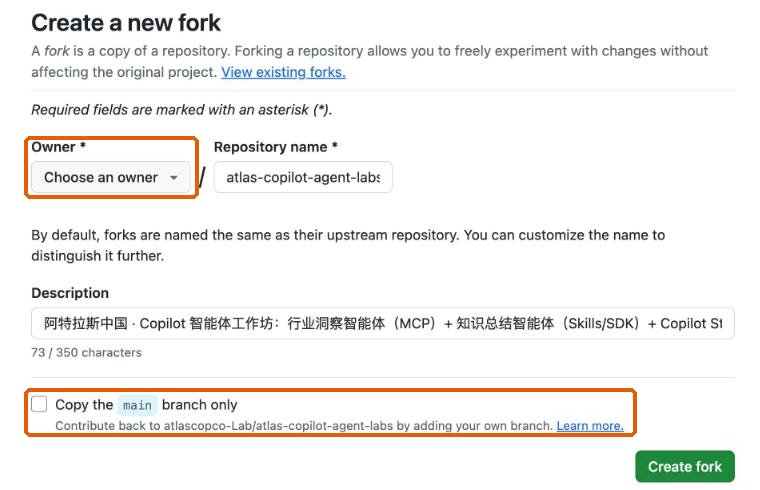
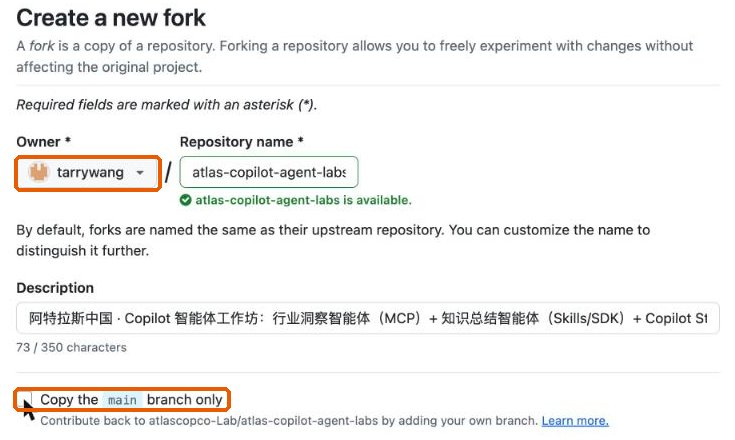
docs: fork 上要单独 Enable Industry Insight Weekly（否则没有 Run workflow），重拍 fork 截图

diff --git a/docs/manual/index.html b/docs/manual/index.html
@@ -452,14 +452,16 @@ figure.shot figcaption { font-size: 13px; color: var(--az-ink-3); margin-top: 6p
           <tr><td>3. Copilot 令牌（Fine-grained PAT）</td><td>在 <a href="https://github.com/settings/personal-access-tokens/new">个人设置 → Fine-grained tokens</a> 生成：Resource owner 选自己，过期时间选 7 天，权限只勾 Account permissions → <b>Copilot Requests: Read</b>。生成后复制 <code>github_pat_…</code>，<b>只显示一次</b>。</td></tr>
           <tr><td>4. 存成 Codespaces secret</td><td><a href="https://github.com/settings/codespaces">Settings → Codespaces</a> → New secret：Name <code>COPILOT_GITHUB_TOKEN</code>，Value 粘贴令牌，Repository access 选你 fork 的仓库。Codespace 启动时自动注入，令牌不落盘。</td></tr>
           <tr><td>5. 存成仓库 Actions secret（Lab-01 第 4 步用）</td><td>你的 fork → Settings → Secrets and variables → <b>Actions</b> → New repository secret：Name 同样是 <code>COPILOT_GITHUB_TOKEN</code>，Value 同一个令牌。云端的 gh-aw 智能体用它调用 Copilot。</td></tr>
-          <tr><td>6. 打开 fork 的 Actions</td><td>你的 fork → <b>Actions</b> 页签 → 点「I understand my workflows, go ahead and enable them」。再到 Settings → Actions → General → 最下面 Workflow permissions 勾选 <b>Allow GitHub Actions to create and approve pull requests</b> → Save。</td></tr>
+          <tr><td>6. 打开 fork 的 Actions</td><td>你的 fork → <b>Actions</b> 页签 → 点「I understand my workflows, go ahead and enable them」；接着点左侧 <b>Industry Insight Weekly</b>（标着 Disabled）→ 黄条右边 <b>Enable workflow</b>，出现绿色 <b>Run workflow</b> 按钮才算好（fork 上的定时工作流要单独启用，不启用就没有 Run workflow）。再到 Settings → Actions → General → 最下面 Workflow permissions 勾选 <b>Allow GitHub Actions to create and approve pull requests</b> → Save。</td></tr>
           <tr><td>7. 先建好 Codespace</td><td>按 <a href="#s0">开场 0.1</a> 在自己的 fork 上建一次，等到 VS Code 出现后可以关掉页面，上课时直接打开。</td></tr>
           <tr><td>8. Copilot Studio 演示账号</td><td>能登录 <a href="https://copilotstudio.microsoft.com">copilotstudio.microsoft.com</a>（Lab-03 用，讲师发账号）</td></tr>
         </tbody>
       </table>
     </div>
     <figure class="shot"><img src="img/00a-fork.jpg" alt="Create a new fork 页面" loading="lazy"><figcaption>第 2 项：Owner 选自己，取消勾选「Copy the main branch only」</figcaption></figure>
-    <figure class="shot"><img src="img/00c-fork-actions-pr.jpg" alt="fork 的 Workflow permissions" loading="lazy"><figcaption>第 6 项：fork 的 Settings → Actions → General 最下面，勾选 Allow GitHub Actions to create and approve pull requests</figcaption></figure>
+    <figure class="shot"><img src="img/00b-fork-enable-actions.jpg" alt="fork 的 Actions 页签" loading="lazy"><figcaption>第 6 项①：fork 的 Actions 页签，点 I understand my workflows, go ahead and enable them</figcaption></figure>
+    <figure class="shot"><img src="img/00b2-fork-enable-workflow.jpg" alt="启用 Industry Insight Weekly" loading="lazy"><figcaption>第 6 项②：左侧 Industry Insight Weekly 标着 Disabled，点黄条右边的 Enable workflow</figcaption></figure>
+    <figure class="shot"><img src="img/00c-fork-actions-pr.jpg" alt="fork 的 Workflow permissions" loading="lazy"><figcaption>第 6 项③：fork 的 Settings → Actions → General 最下面，勾选 Allow GitHub Actions to create and approve pull requests → Save</figcaption></figure>
     <p class="tip">费用：Codespace 和 Actions 记在你自己的账号上。GitHub 个人账号每月有 120 核时的免费 Codespaces 额度（相当于 2 核机器 60 小时），本课程用 4 核机器，课前建一次加上课半天约 15~20 核时，在免费额度内；课后记得停掉或删除 Codespace（见 <a href="#after">课后清理</a>）。Copilot 调用用的是你自己的 Copilot 额度。</p>
   </section>
 
@@ -691,7 +693,7 @@ git push</pre>
         <figure class="shot"><img src="img/32-gh-aw-run-dialog.jpg" alt="手动运行" loading="lazy"></figure>
         <figure class="shot"><img src="img/33-gh-aw-queued.jpg" alt="运行已排队" loading="lazy"></figure>
         <p class="see"><b>应该看到</b>：列表最上面出现你的运行。一次约 5 分钟，放在休息前触发，休息回来看结果：成功时你的 fork 里会多一个 <b>Pull request</b>，里面是带你新行业的周报，你自己审核后 Merge。</p>
-        <p class="warn">左侧找不到 Industry Insight Weekly、或者没有 Run workflow 按钮：fork 的 Actions 还没打开（课前准备第 6 项）。运行失败时 gh-aw 会自动在你的 fork 开一个「[aw] …」Issue 说明原因，<code>401 Authentication failed</code> 表示你 fork 的 Actions secret <code>COPILOT_GITHUB_TOKEN</code> 没设或令牌过期（课前准备第 5 项）。fork 上的定时任务默认不跑，所以本课程都用手动触发。</p>
+        <p class="warn">左侧找不到 Industry Insight Weekly：fork 的 Actions 还没打开；有它但没有 Run workflow 按钮、旁边标着 Disabled：这个工作流还没单独启用，点进去按黄条上的 <b>Enable workflow</b>（都是课前准备第 6 项）。运行失败时 gh-aw 会自动在你的 fork 开一个「[aw] …」Issue 说明原因，<code>401 Authentication failed</code> 表示你 fork 的 Actions secret <code>COPILOT_GITHUB_TOKEN</code> 没设或令牌过期（课前准备第 5 项）。启用后它也会每周一按时在你的 fork 上跑，不想要就在课后关掉（见 <a href="#after">课后清理</a>）。</p>
       </div>
     </div>
 
@@ -978,7 +980,7 @@ git fetch upstream</pre>
       <article class="az-card is-orchid">
         <div class="card-no" style="color:#F3DDEE;">可选</div>
         <h3 class="card-title">fork 留着还是删</h3>
-        <p class="card-desc" style="color:#fff;">fork 不花钱，可以留着回去接着改自己的行业和 Skill。想每周一自动收周报：fork 的 Actions 里把 Industry Insight Weekly 启用定时（fork 默认不跑定时任务），并换一个长期有效的令牌。不要了就 Settings → 最下面 Delete this repository。</p>
+        <p class="card-desc" style="color:#fff;">fork 不花钱，可以留着回去接着改自己的行业和 Skill。课前启用的 Industry Insight Weekly 会每周一在你的 fork 上自动跑：想继续收周报就换一个长期有效的令牌；不想要（或者已经删了令牌）就到 fork 的 Actions → Industry Insight Weekly → 右上角 <b>⋯</b> → <b>Disable workflow</b>，免得每周报 401。fork 不要了就 Settings → 最下面 Delete this repository。</p>
       </article>
     </div>
   </section>

diff --git a/INSTRUCTOR.md b/INSTRUCTOR.md
@@ -17,7 +17,8 @@
    Codespaces / Actions / Copilot 额度都记在学员自己账号上，互不影响；学员也不需要本仓库的写权限。
    - fork 时提醒**取消勾选**「Copy the `main` branch only」，`answer/*` 参考答案分支才会带过去；
    - 学员课前要做：fork → 生成 Fine-grained PAT（Account → Copilot Requests: Read，7 天过期）→
-     存成个人 Codespaces secret 和 fork 的 Actions secret（都叫 `COPILOT_GITHUB_TOKEN`）→ fork 的 Actions 页签启用工作流 →
+     存成个人 Codespaces secret 和 fork 的 Actions secret（都叫 `COPILOT_GITHUB_TOKEN`）→ fork 的 Actions 页签启用工作流，
+     再单独 Enable 一次 Industry Insight Weekly（fork 上定时工作流默认 Disabled，不启用就没有 Run workflow）→
      fork 的 Settings → Actions → General 勾选「Allow GitHub Actions to create and approve pull requests」→ 建一次 Codespace。
      步骤见 [实操手册 · 课前准备](docs/manual/index.html#prep)；
    - 如果学员是 Enterprise Managed Users（EMU）账号，不能 fork 到个人名下，要改回「组织内建仓库」的方式，T-7 先确认。
@@ -53,7 +54,7 @@
 
 - 工作流源文件：`.github/workflows/industry-insight.md`；改完必须 `gh aw compile industry-insight` 再提交 `.lock.yml`。
 - 本仓库需要 Secret `COPILOT_GITHUB_TOKEN`（讲师的 Fine-grained PAT，Copilot Requests 权限）；每个学员的 fork 用学员自己的同名 Secret。
-- fork 上 `schedule` 默认不触发，学员在 Lab-01 第 4 步用 Run workflow 手动跑；结果是学员 fork 里的 PR。
+- fork 上定时工作流默认 Disabled，学员课前在 Actions 里点 Enable workflow（启用后每周一也会在学员 fork 上定时跑）；课上在 Lab-01 第 4 步用 Run workflow 手动跑，结果是学员 fork 里的 PR。
 - 仓库 Settings → Actions → General：勾选 **Allow GitHub Actions to create and approve pull requests**。
   atlascopco-Lab 企业在 Policies → Actions 里锁住了这一项（2026-10-16），没放开时 gh-aw 会把周报推到分支并建一个 Issue，
   由人点 Issue 里的「Create the pull request」链接建 PR，合并即可。学员的个人 fork 不受这条企业策略限制，自己勾选即可。
@@ -79,6 +80,7 @@
 |---|---|---|
 | Codespace 开了很久还在装依赖 | fork 没有预构建，第一次要现装 5~8 分钟 | 等它装完；以后打开同一个 Codespace 就快了。所以要求 T-1 建好 |
 | 学员 fork 的 Actions 里看不到 Industry Insight Weekly | fork 上工作流默认停用 | fork → Actions 页签 → I understand my workflows, go ahead and enable them |
+| 有 Industry Insight Weekly 但没有 Run workflow | 定时工作流在 fork 上要单独启用 | 点进去 → 黄条上的 Enable workflow |
 | 学员 gh-aw 报 401 | 学员 fork 没设 Actions secret 或令牌过期 | fork → Settings → Secrets and variables → Actions → `COPILOT_GITHUB_TOKEN` |
 | 学员 `git restore --source origin/answer/...` 报 invalid reference | fork 时只复制了 main | `git remote add upstream <本仓库地址> && git fetch upstream`，改用 `upstream/answer/...` |
 | Studio 里一堆同名「Atlas Agent Labs」 | 学员没改 openapi.yaml 的 title | 让学员把 title 改成「Atlas Agent Labs · 名字」重新导入，删掉自己旧的那个 |
@@ -92,4 +94,4 @@
 
 - 提醒学员按 [实操手册 · 课后清理](docs/manual/index.html#after) 做：端口改回 Private、推送改动、删除 Codespace、删除 PAT 和两处 Secret、删 Studio 里自己的智能体和工具。
 - 讲师：清理 Studio 演示租户里残留的智能体和「Atlas Agent Labs · …」连接器；按需更新或删除本仓库的 `COPILOT_GITHUB_TOKEN`。
-- 学员想继续用：fork 留着即可，想每周一自动收周报就在 fork 的 Actions 里启用定时，并换一个长期令牌。
+- 学员想继续用：fork 留着即可，课前启用的定时工作流每周一会自动跑，换一个长期令牌即可；不想要就在 fork 的 Actions → Industry Insight Weekly → ⋯ → Disable workflow。

diff --git a/docs/codespaces.md b/docs/codespaces.md
@@ -10,6 +10,7 @@
 - [ ] Fork 课程仓库：右上角 **Fork** → Owner 选自己 → **取消勾选**「Copy the `main` branch only」（卡住时要用 `answer/*` 参考答案分支）
 - [ ] 按下面「准备 Copilot 令牌」生成好 Fine-grained PAT，并存成两处 Secret（见第 6、7 步）
 - [ ] 你的 fork → **Actions** 页签 → 点「I understand my workflows, go ahead and enable them」；
+      再点左侧 **Industry Insight Weekly**（标着 Disabled）→ 黄条上的 **Enable workflow**，看到 **Run workflow** 按钮才算好；
       Settings → Actions → General → Workflow permissions 勾选 **Allow GitHub Actions to create and approve pull requests** → Save
 - [ ] 按第 1 节在你的 fork 上建好 Codespace（第一次要现装依赖，5~8 分钟）
 - [ ] 讲师发给你的 Copilot Studio 演示账号能登录 <https://copilotstudio.microsoft.com>（Lab-03 要用）
@@ -107,7 +108,8 @@ bash Lab-03-Copilot-Studio/smoke-test.sh
 4. 删除令牌和 Secret：<https://github.com/settings/personal-access-tokens> 删 PAT；
    <https://github.com/settings/codespaces> 删 `COPILOT_GITHUB_TOKEN`；fork 的 Settings → Secrets and variables → Actions 删同名 Secret。
 5. Copilot Studio：删掉你建的「业务汇报助手」和「Atlas Agent Labs · 你的名字」工具及连接。
-6. fork 可以留着课后继续改；不要了就 fork 的 Settings → 最下面 **Delete this repository**。
+6. fork 可以留着课后继续改；课前启用的 Industry Insight Weekly 每周一会自动跑，删了令牌或不想要就在 fork 的
+   Actions → Industry Insight Weekly → **⋯** → **Disable workflow**。fork 不要了就 Settings → 最下面 **Delete this repository**。
 
 ## 遇到问题
 
@@ -115,6 +117,7 @@ bash Lab-03-Copilot-Studio/smoke-test.sh
 |---|---|
 | Codespace 一直在装依赖，很久不好 | fork 没有预构建，第一次要 5~8 分钟，等它装完；以后打开同一个 Codespace 就快了 |
 | fork 的 Actions 里没有 Industry Insight Weekly | fork 上工作流默认停用：Actions 页签点「I understand my workflows, go ahead and enable them」 |
+| 有 Industry Insight Weekly 但没有 Run workflow 按钮 | 定时工作流在 fork 上要单独启用：点进去 → **Enable workflow** |
 | gh-aw 报 401 | fork 的 Actions secret `COPILOT_GITHUB_TOKEN` 没设或令牌过期 |
 | Codespace 打不开 / 白屏 | 公司网络访问不了 `*.github.dev`，换讲师提供的热点 |
 | Chat 里没有 Agent 模式或工具图标 | 组织的 Copilot 策略没开 Agent / MCP，找讲师 |

diff --git a/Lab-01-Industry-Insight/README.md b/Lab-01-Industry-Insight/README.md
@@ -91,9 +91,9 @@ frontend/report.md + report.json ──▶ 周报网页（Codespace 预览 / Git
 
 同一套工具也被 gh-aw（GitHub Agentic Workflows）调用：[.github/workflows/industry-insight.md](../.github/workflows/industry-insight.md)
 是用 Markdown 写的工作流，`gh aw compile` 编译成 Actions 真正运行的 `.lock.yml`。课程仓库每周一北京时间 08:00 定时运行；
-fork 上定时任务默认不跑，你用手动触发。
+fork 上的定时工作流默认是停用的（Disabled），课前准备里已经单独启用了它，课上用手动触发。
 
-1. 前提（课前准备里做过）：fork 的 Actions 已启用；fork 有 Actions secret `COPILOT_GITHUB_TOKEN`；
+1. 前提（课前准备里做过）：fork 的 Actions 已启用，Industry Insight Weekly 也点过 **Enable workflow**；fork 有 Actions secret `COPILOT_GITHUB_TOKEN`；
    Settings → Actions → General 勾选了「Allow GitHub Actions to create and approve pull requests」。
 2. 把改动推到你的 fork：
    ```bash
@@ -117,6 +117,7 @@ fork 上定时任务默认不跑，你用手动触发。
 | 周报页头显示「兜底（未经智能体研判）」 | 智能体没把研判结果交给 `build_weekly_report`，在 Chat 里让它「按 warnings 修正后重新生成周报」 |
 | 新加的工具智能体不调用 | MCP 服务器没重启：`.vscode/mcp.json` 里点 Restart，确认「5 tools」 |
 | fork 的 Actions 里没有 Industry Insight Weekly | Actions 页签点「I understand my workflows, go ahead and enable them」 |
+| 有 Industry Insight Weekly 但没有 Run workflow 按钮 | 它旁边标着 Disabled：点进去，按黄条上的 **Enable workflow** |
 | gh-aw 报 401 | fork 的 Actions secret `COPILOT_GITHUB_TOKEN` 没设或令牌过期 |
 | 某个行业 0 条 | 看周报最后的「数据覆盖与缺口」；搜索词太窄就放宽，或去掉过严的排除词 |
 

diff --git a/tasks/todo.md b/tasks/todo.md
@@ -132,3 +132,17 @@
 - [ ] 👤 设 fork 的 Actions secret 后跑 gh-aw，确认 fork 出现 PR
 - [ ] 发现：answer/lab02 的品牌色（#0B3C5D/#1C8AD6）与手册提示词（#003A70/#FFC20E）不一致，需统一
 - [ ] 发现：连接对话框只显示 Display name，没看到 API key 输入框，需复核
+
+## 从头重跑（2026-10-17 晚，分支 docs/rerun-1017）
+
+前置：Studio（Ontology-trial）已清空（智能体、连接器、AIPlugin、连接、Solution）；旧 fork 与 Codespace 已删；PAT 与 Codespaces secret 保留。
+分工：🤖 = Claude 按手册操作并截图；👤 = 令牌 / API 密钥相关，Claude 停下来给步骤，等用户做完。文档边跑边改，截图换新。
+
+- [ ] 课前：🤖 fork（不只复制 main）→ 🤖 启用 Actions + 允许建 PR → 👤 Codespaces secret 加上新 fork、fork 的 Actions secret
+- [ ] 开场：🤖 建 Codespace → 信任文件夹 → 界面就绪 → set-key（回车跳过）
+- [ ] 热身 1~4
+- [ ] Lab-01 1~4（含 fork 上手动跑 gh-aw，看 PR）
+- [ ] Lab-02 1~4
+- [ ] Lab-03：端口 Public + smoke → 改 openapi → Studio 新建智能体（Solution、名字带名字）→ 指令 → 关 Web Search → 导入 REST API →
+      👤 建连接粘贴 LAB_API_KEY → 挂 4 个工具（逐个核对连接、试 Maker-provided credentials）→ 测试 1~5 → 改一处
+- [ ] 文档：手册 / Lab-03 README / codespaces.md / INSTRUCTOR.md 按实测改；Studio 截图全换新；课后清理补「Default Solution 里删 AIPlugin」
